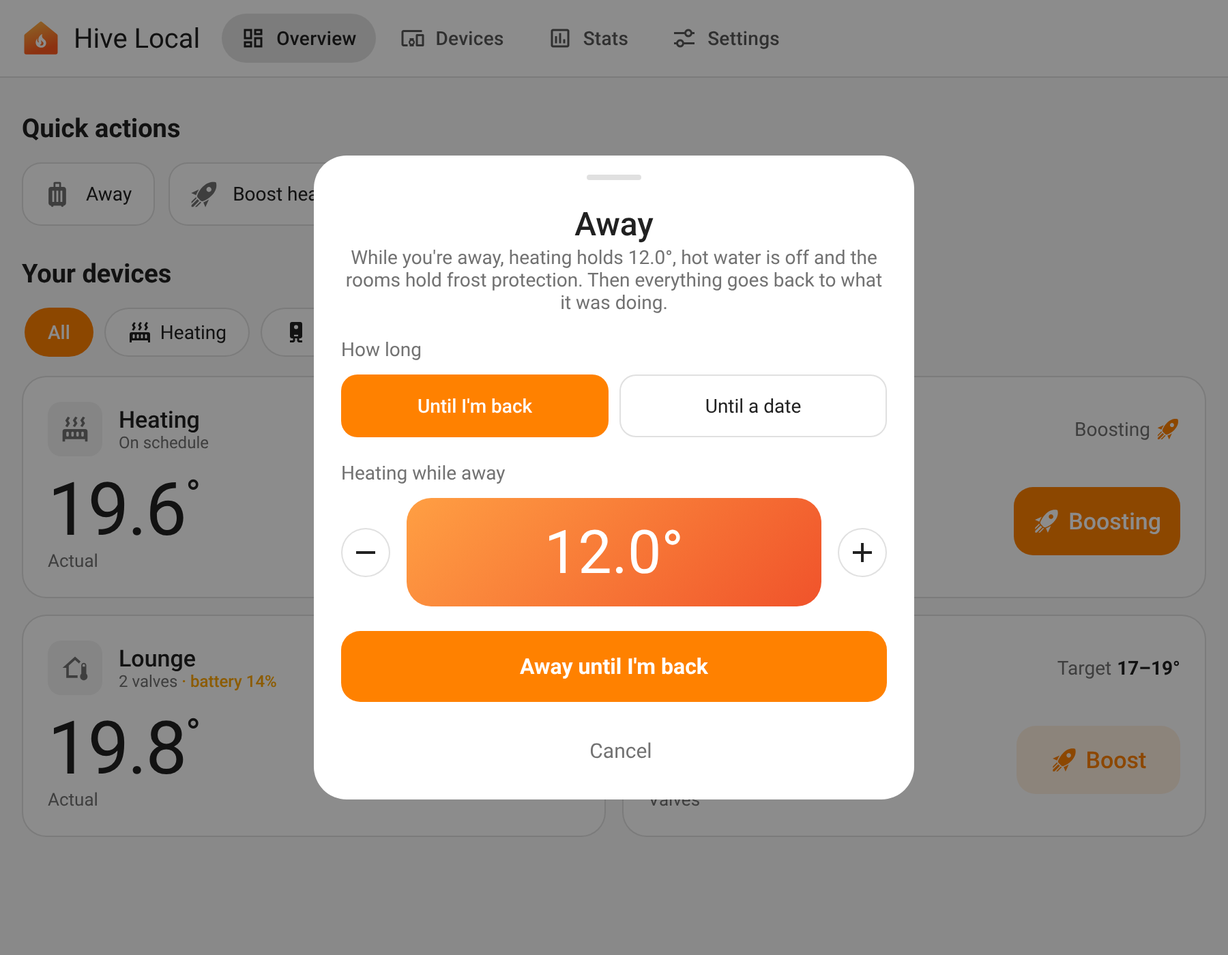
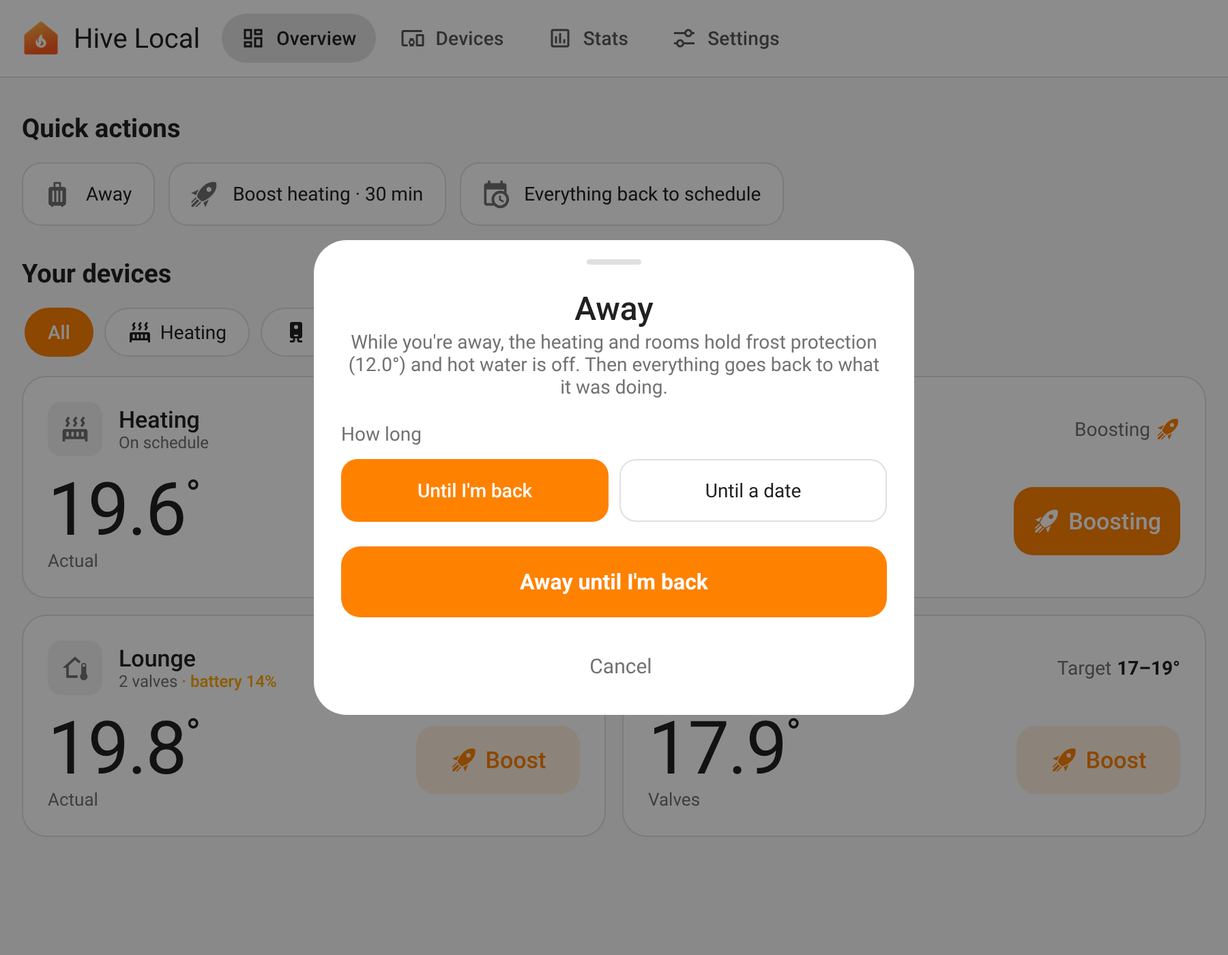
fix(holiday): away and holidays always hold frost protection
No temperature to pick: the Away sheet's stepper is gone and set_holiday no longer takes a temperature, like set_away.

Claude-Session: https://claude.ai/code/session_01P2tYEZ8mBtH1pfQTx5Higu

Changed region(s): [[0.2489, 0.1536, 0.7467, 0.86]]

diff --git a/custom_components/hive_local/frontend/hive-local-panel.js b/custom_components/hive_local/frontend/hive-local-panel.js
@@ -6007,24 +6007,20 @@ function O(e) {
 }
 // src/Holiday.tsx
 var k = (e) => String(e).padStart(2, "0"), A = (e) => `${e.getFullYear()}-${k(e.getMonth() + 1)}-${k(e.getDate())}T${k(e.getHours())}:${k(e.getMinutes())}`;
-function ee({ hasHeat: e, hasWater: t, frost: n, limits: r, busy: i, onGo: a, onClose: o }) {
-	let [s, c] = (0, u.useState)(() => {
+function ee({ hasHeat: e, hasWater: t, frost: n, busy: r, onGo: i, onClose: a }) {
+	let [o, s] = (0, u.useState)(() => {
 		let e = /* @__PURE__ */ new Date();
 		return e.setDate(e.getDate() + 7), e.setHours(14, 0, 0, 0), A(e);
-	}), [l, d] = (0, u.useState)(n), [m, h] = (0, u.useState)(!1), g = r?.boost_min_temp ?? 5, _ = r?.heat_max ?? 32, v = (e) => Math.min(_, Math.max(g, Math.round(e * 2) / 2));
+	}), [c, l] = (0, u.useState)(!1);
 	(0, u.useEffect)(() => {
-		let e = (e) => e.key === "Escape" && o();
+		let e = (e) => e.key === "Escape" && a();
 		return window.addEventListener("keydown", e), () => window.removeEventListener("keydown", e);
-	}, [o]);
-	let y = new Date(s), b = !m || !Number.isNaN(y.getTime()) && y.getTime() > Date.now() + 6e4, x = [
-		e && `heating holds ${l.toFixed(1)}°`,
-		t && "hot water is off",
-		e && "the rooms hold frost protection"
-	].filter(Boolean).join(", ").replace(/, ([^,]*)$/, " and $1");
+	}, [a]);
+	let d = new Date(o), p = !c || !Number.isNaN(d.getTime()) && d.getTime() > Date.now() + 6e4, m = [e && `the heating and rooms hold frost protection (${n.toFixed(1)}°)`, t && "hot water is off"].filter(Boolean).join(", ").replace(/, ([^,]*)$/, " and $1");
 	return /* @__PURE__ */ (0, f.jsx)("div", {
 		className: "sheet-backdrop",
 		onClick: (e) => {
-			e.stopPropagation(), o();
+			e.stopPropagation(), a();
 		},
 		children: /* @__PURE__ */ (0, f.jsxs)("div", {
 			className: "sheet heat",
@@ -6040,7 +6036,7 @@ function ee({ hasHeat: e, hasWater: t, frost: n, limits: r, busy: i, onGo: a, on
 						className: "muted",
 						children: [
 							"While you're away, ",
-							x,
+							m,
 							". Then everything goes back to what it was doing."
 						]
 					})]
@@ -6053,17 +6049,17 @@ function ee({ hasHeat: e, hasWater: t, frost: n, limits: r, busy: i, onGo: a, on
 					}), /* @__PURE__ */ (0, f.jsxs)("div", {
 						className: "sheet-lengths",
 						children: [/* @__PURE__ */ (0, f.jsx)("button", {
-							className: m ? "" : "on",
-							onClick: () => h(!1),
+							className: c ? "" : "on",
+							onClick: () => l(!1),
 							children: "Until I'm back"
 						}), /* @__PURE__ */ (0, f.jsx)("button", {
-							className: m ? "on" : "",
-							onClick: () => h(!0),
+							className: c ? "on" : "",
+							onClick: () => l(!0),
 							children: "Until a date"
 						})]
 					})]
 				}),
-				m && /* @__PURE__ */ (0, f.jsxs)("div", {
+				c && /* @__PURE__ */ (0, f.jsxs)("div", {
 					className: "sheet-field",
 					children: [/* @__PURE__ */ (0, f.jsx)("span", {
 						className: "sheet-label",
@@ -6071,47 +6067,20 @@ function ee({ hasHeat: e, hasWater: t, frost: n, limits: r, busy: i, onGo: a, on
 					}), /* @__PURE__ */ (0, f.jsx)("input", {
 						className: "sheet-time",
 						type: "datetime-local",
-						value: s,
+						value: o,
 						min: A(/* @__PURE__ */ new Date()),
-						onChange: (e) => c(e.target.value)
-					})]
-				}),
-				e && /* @__PURE__ */ (0, f.jsxs)("div", {
-					className: "sheet-field",
-					children: [/* @__PURE__ */ (0, f.jsx)("span", {
-						className: "sheet-label",
-						children: "Heating while away"
-					}), /* @__PURE__ */ (0, f.jsxs)("div", {
-						className: "sheet-temp",
-						children: [
-							/* @__PURE__ */ (0, f.jsx)("button", {
-								className: "round sheet-step",
-								onClick: () => d(v(l - .5)),
-								"aria-label": "Lower",
-								children: /* @__PURE__ */ (0, f.jsx)(p, { name: "minus" })
-							}),
-							/* @__PURE__ */ (0, f.jsxs)("span", {
-								className: "sheet-temp-value",
-								children: [l.toFixed(1), "°"]
-							}),
-							/* @__PURE__ */ (0, f.jsx)("button", {
-								className: "round sheet-step",
-								onClick: () => d(v(l + .5)),
-								"aria-label": "Raise",
-								children: /* @__PURE__ */ (0, f.jsx)(p, { name: "plus" })
-							})
-						]
+						onChange: (e) => s(e.target.value)
 					})]
 				}),
 				/* @__PURE__ */ (0, f.jsx)("button", {
 					className: "sheet-go",
-					disabled: i || !b,
-					onClick: () => a(m ? y : null, l),
-					children: m ? b ? `Away until ${T(y)}` : "Pick a time in the future" : "Away until I'm back"
+					disabled: r || !p,
+					onClick: () => i(c ? d : null),
+					children: c ? p ? `Away until ${T(d)}` : "Pick a time in the future" : "Away until I'm back"
 				}),
 				/* @__PURE__ */ (0, f.jsx)("button", {
 					className: "ghost sheet-cancel",
-					onClick: o,
+					onClick: a,
 					children: "Cancel"
 				})
 			]
@@ -6320,12 +6289,10 @@ function N({ getHass: e, devices: t, status: n, limits: r }) {
 			hasHeat: g.some(({ c: e }) => e === "heat"),
 			hasWater: g.some(({ c: e }) => e === "water"),
 			frost: v?.frost_temperature ?? 12,
-			limits: r,
 			busy: i != null,
-			onGo: (e, t) => m("holiday", [{
+			onGo: (e) => m("holiday", [{
 				type: "hive_local/holiday/set",
-				...e ? { until: e.toISOString() } : {},
-				temperature: t
+				...e ? { until: e.toISOString() } : {}
 			}], e ? `Away until ${T(e)}` : "Away until you're back").then((e) => e && l(!1)),
 			onClose: () => l(!1)
 		})

diff --git a/frontend/src/Holiday.tsx b/frontend/src/Holiday.tsx
@@ -1,31 +1,27 @@
 import { useEffect, useState } from "react";
 import { formatUntil } from "./api";
-import { Icon } from "./Icon";
-import type { Limits } from "./types";
 
 const pad = (n: number) => String(n).padStart(2, "0");
 /** A Date as a datetime-local input value (the browser's local time). */
 const toInput = (d: Date) =>
   `${d.getFullYear()}-${pad(d.getMonth() + 1)}-${pad(d.getDate())}T${pad(d.getHours())}:${pad(d.getMinutes())}`;
 
-/** Away until…: pick when you're back and what the heating holds meanwhile (every receiver). */
+/** Away: until you're back or until a date (every receiver). Heating always holds frost protection. */
 export function HolidaySheet({
   hasHeat,
   hasWater,
   frost,
-  limits,
   busy,
   onGo,
   onClose,
 }: {
   hasHeat: boolean;
   hasWater: boolean;
-  /** The frost protection setting: the default holiday temperature. */
+  /** The frost protection setting: what the heating holds while away. */
   frost: number;
-  limits: Limits | null;
   busy: boolean;
   /** null: until you're back (the Away toggle). */
-  onGo: (until: Date | null, temperature: number) => void;
+  onGo: (until: Date | null) => void;
   onClose: () => void;
 }) {
   // A week from now, at 14:00.
@@ -35,12 +31,8 @@ export function HolidaySheet({
     d.setHours(14, 0, 0, 0);
     return toInput(d);
   });
-  const [temp, setTemp] = useState(frost);
   // Until you're back (open-ended, the default) or until a date.
   const [dated, setDated] = useState(false);
-  const minTemp = limits?.boost_min_temp ?? 5;
-  const maxTemp = limits?.heat_max ?? 32;
-  const clamp = (t: number) => Math.min(maxTemp, Math.max(minTemp, Math.round(t * 2) / 2));
   useEffect(() => {
     const onKey = (e: KeyboardEvent) => e.key === "Escape" && onClose();
     window.addEventListener("keydown", onKey);
@@ -49,7 +41,7 @@ export function HolidaySheet({
 
   const when = new Date(until);
   const valid = !dated || (!Number.isNaN(when.getTime()) && when.getTime() > Date.now() + 60_000);
-  const what = [hasHeat && `heating holds ${temp.toFixed(1)}°`, hasWater && "hot water is off", hasHeat && "the rooms hold frost protection"]
+  const what = [hasHeat && `the heating and rooms hold frost protection (${frost.toFixed(1)}°)`, hasWater && "hot water is off"]
     .filter(Boolean)
     .join(", ")
     .replace(/, ([^,]*)$/, " and $1");
@@ -84,18 +76,7 @@ export function HolidaySheet({
           </div>
         )}
 
-        {hasHeat && (
-          <div className="sheet-field">
-            <span className="sheet-label">Heating while away</span>
-            <div className="sheet-temp">
-              <button className="round sheet-step" onClick={() => setTemp(clamp(temp - 0.5))} aria-label="Lower"><Icon name="minus" /></button>
-              <span className="sheet-temp-value">{temp.toFixed(1)}°</span>
-              <button className="round sheet-step" onClick={() => setTemp(clamp(temp + 0.5))} aria-label="Raise"><Icon name="plus" /></button>
-            </div>
-          </div>
-        )}
-
-        <button className="sheet-go" disabled={busy || !valid} onClick={() => onGo(dated ? when : null, temp)}>
+        <button className="sheet-go" disabled={busy || !valid} onClick={() => onGo(dated ? when : null)}>
           {!dated ? "Away until I'm back" : valid ? `Away until ${formatUntil(when)}` : "Pick a time in the future"}
         </button>
         <button className="ghost sheet-cancel" onClick={onClose}>Cancel</button>

diff --git a/frontend/src/Overview.tsx b/frontend/src/Overview.tsx
@@ -191,10 +191,9 @@ function QuickActions({ getHass, devices, status, limits }: { getHass: () => Has
           hasHeat={all.some(({ c }) => c === "heat")}
           hasWater={all.some(({ c }) => c === "water")}
           frost={heatInfo?.frost_temperature ?? 12}
-          limits={limits}
           busy={busy != null}
-          onGo={(until, temperature) =>
-            run("holiday", [{ type: "hive_local/holiday/set", ...(until ? { until: until.toISOString() } : {}), temperature }], until ? `Away until ${formatUntil(until)}` : "Away until you're back").then(
+          onGo={(until) =>
+            run("holiday", [{ type: "hive_local/holiday/set", ...(until ? { until: until.toISOString() } : {}) }], until ? `Away until ${formatUntil(until)}` : "Away until you're back").then(
               (ok) => ok && setHolidaySheet(false),
             )
           }

diff --git a/tests/e2e/test_holiday_e2e.py b/tests/e2e/test_holiday_e2e.py
@@ -172,9 +172,9 @@ async def test_holiday(hass, mqtt_mock, freezer, hass_ws_client):
     freezer.move_to(t1)
     await report(hass, {**SCHEDULE, "temperature_setpoint_hold_heat": True, "occupied_heating_setpoint_heat": 19})
     mqtt_mock.async_publish.reset_mock()
-    await hass.services.async_call("hive_local", "set_holiday", {"until": t1 + timedelta(hours=2), "temperature": 10}, blocking=True)
-    assert boost(120, 10.0) in sets(mqtt_mock), sets(mqtt_mock)
-    await report(hass, away(temp=10, left=120))
+    await hass.services.async_call("hive_local", "set_holiday", {"until": t1 + timedelta(hours=2)}, blocking=True)
+    assert boost(120, 12.0) in sets(mqtt_mock), sets(mqtt_mock)
+    await report(hass, away(temp=12, left=120))
     assert holiday.away["heat"].restore_mode == "manual" and holiday.away["heat"].restore_setpoint == 19
     mqtt_mock.async_publish.reset_mock()
     await tick(hass, freezer, t1 + timedelta(hours=2, seconds=1))

diff --git a/custom_components/hive_local/services.py b/custom_components/hive_local/services.py
@@ -38,9 +38,6 @@ SET_HOLIDAY_SCHEMA = vol.Schema(
     _DEVICE
     | {
         vol.Required(ATTR_UNTIL): cv.datetime,
-        vol.Optional(ATTR_TEMPERATURE): vol.All(
-            vol.Coerce(float), vol.Range(BOOST_MIN_TEMP, HEAT_MAX)
-        ),
     }
 )
 SET_AWAY_SCHEMA = vol.Schema(_DEVICE)
@@ -97,7 +94,7 @@ def async_register(hass: HomeAssistant) -> None:
             until = until.replace(tzinfo=dt_util.get_default_time_zone())
         try:
             for entry in _entries(hass, call):
-                await entry.runtime_data.async_set_holiday(until, call.data.get(ATTR_TEMPERATURE))
+                await entry.runtime_data.async_set_holiday(until)
         except ScheduleError as err:
             raise ServiceValidationError(str(err)) from err
 

diff --git a/CLAUDE.md b/CLAUDE.md
@@ -22,7 +22,7 @@ Don't use the domain `hive`: HA core's cloud Hive integration already has it, an
   - Valve schedules (#5; **works on a real Hive valve**, Elliot tested it on 2026-11-26, so the Experimental chip and "not yet tried" note are gone): a room's weekly schedule kept on each of its Hive valves (a Danfoss Ally keeps 6 transitions a day, endpoint 1, the receiver's ZCL commands) and followed only in its "schedule" programming mode. `trv.py` (pure, tested in `test_trv.py`): valve address from the device registry identifiers (`("zha", ieee)` / `("mqtt", "zigbee2mqtt_0x…")`), Z2M's `schedule_<day>` text ("06:00/21 22:00/17"), `combine_reads` (the first valve with the most days; `differs` lists days the valves disagree on), and the clock: ZCL time is seconds since 2000-01-01 UTC, `time_attributes` (time, time_status 0x02, standard `time_zone`, `dst_start/end/shift` from the HA time zone, either hemisphere), `clock_offset` (the valve's `local_time`, else time + zone + DST, against HA's local time) and `CLOCK_TOLERANCE` 120 s. Valve setpoints are 5–32 °C. The editor's "Off" is the room's receiver's **frost protection** (`RoomManager.frost`, Settings → Frost protection, default 12 °C; Elliot, 2026-11-26, "like the receiver"), returned as `limits.frost` by `rooms/schedule/get`: the Ally has no off, so what Off writes is what it holds. Slots at that temperature, or at 5 °C or below (older writes), show as Off; on a read, `RoomSchedule` turns 5 °C-or-below slots into the frost temperature as unsaved changes (`ScheduleSource.read` may return `edited` + `note`), so one Save moves valves written before the change (Elliot saw them still at 5, 2026-11-26). Harness: `?oldoff=1`. `valve_schedule.py`: `async_read_room` (every valve at once; `VALVE_READ_TIMEOUT` 15 s, it sleeps), `async_write_room` (validated, then every valve, one command per day with only its own transitions, `schedule.per_day(pad=False)`: Z2M sends the Ally exactly its transitions, and padding to 6 repeats a time, which the valve may refuse (Elliot's read/save gave `Status.FAILURE: 1`, 2026-11-26; the receivers keep their padding); the panel sends only changed days; partial failures come back in `failed`, all failing is an error) and `async_set_room_schedule_mode`. **ZHA** (`transports/zha_valve.py`, lazily imported): the read/write share `read_weekly_schedule` / `write_weekly_schedule` with the receiver (`transports/zha.py`; reads `expect_reply=False` + legacy listener), but valve writes wait for the default response (Z2M doesn't disable it for the Ally). **Sleepy:** every valve request (schedule read/write, clock, schedule mode) goes through `zha.send_when_awake`, which tries again every 5 s for up to `VALVE_WAKE_WAIT` (120 s) while delivery fails (the parent drops a message the sleeping valve doesn't poll for; Z2M queues them instead); the panel says pressing a valve's dial wakes it. **Clock:** before writing, each valve's Time cluster (0x000A) is read and, if more than 2 min out or unset, set (like Z2M does daily for the Ally) and read back; still wrong (or refused) skips that valve ("Not written, its clock may be wrong"). Reads only report it. Chosen over refusing: the Ally needs the right time for any schedule, and ZHA's Danfoss quirk only writes the time when binding, with no DST (an hour out all summer in the UK). `programing_oper_mode` bit 0 = follow the schedule. **Z2M:** supported: zigbee-herdsman-converters' Ally definition (`danfossWeeklySchedule`) has `schedule_<day>` keys (one setWeeklySchedule / getWeeklySchedule per key, queued for the sleepy valve) and sets the clock itself (on pairing, rejoin and daily), so we don't check it; the valve's topic is `<base>/<friendly name>` found by IEEE in `bridge/devices` (each Z2M receiver's base topic, then `zigbee2mqtt`); a read takes `schedule_<day>` and `programming_operation_mode` from state messages after the `/get` (Z2M's state carries its cache, so a stale day is possible). Websocket `hive_local/rooms/schedule/get|set`; the valves' schedule mode is switched by the room's mode (`rooms/mode`; the separate `rooms/schedule/mode` was removed, Elliot 2026-11-26). Panel: the room page's Schedule tab → `RoomSchedule.tsx` (`RoomScheduleDialog`, on the room page with `page`: the status line from the room's mode, like the heating's ("Your schedule is running" / "isn't being used: the room is on Manual"; the old "The valves follow this schedule · Use it / Stop" row duplicated the Control tab's Schedule / Manual / Off and is gone, Elliot 2026-11-26), notes on clocks, missing days, disagreements and valves not following it, and the sleep hint below) around `ScheduleEditor` with a `source` (read/write/noun/statusLine; `embedded` makes the ⋯ button and save bar sticky in the dialog). `tests/e2e/test_valve_schedule_e2e.py`: a real zigpy device with Thermostat + Time on endpoint 1 and a fake Ally radio (per-day replies, default responses, a clock an hour behind in BST), a clock that can't be set, and a room with a ZHA and a Z2M valve. Still unverified: the Z2M keys' behaviour on a real Z2M, and the valve's `local_time`.
   - `stats.py` (pure, unit-tested): `sample_from_state` turns a recorded state of our climate / water_heater entity into a `Sample` (mode, heating, current, target), and `summarise` gives heating minutes, cycles (off→on inside the period), boosts, time per mode, time-weighted temperatures, per-day totals, chart buckets (15 min / 1 h / 6 h for 1 / 7 / 30 days) and the same stretch of the previous period. `websocket.hive_local/stats {entry_id, channel, days, offset}` (offset = periods back) finds our entity by unique id and reads `recorder.history.get_significant_states(significant_changes_only=False)` (attribute changes matter: `hvac_action`, `heating`). Periods start at local midnight. `recorder` is an `after_dependency`. `frontend/src/Stats.tsx` is the Stats tab, laid out after the Hive app's Heating History (which Elliot shared): receiver tabs (several receivers; on a device page it's fixed to that channel), D / W / M and time or temperature (heating) toggles (Hive's £ cost isn't possible: no energy prices), a ‹ date › pill to step back, a tinted summary box with two numbers, a note (vs the period before, fired up, boosts), then a row per day (per hour on D, from the 15-min buckets) newest first: bar, value, and that day's low · high room temperature (where Hive shows the weather). Days carry `temp_min` / `temp_max`. The old SVG charts are gone. Not yet tried against real recorder data. **Outdoor temperature** (0.9.0, issue #10): the house-wide `HouseSettings.outdoor_entity` (Settings tab; it was briefly a per-receiver options flow, removed before release); `history.async_outdoor` reads its recorded history (weather: the `temperature` attribute; converted to HA's unit system) as `stats.Reading`s, and `summarise(outdoor=...)` adds `outdoor` {avg, min, max} to the period, `outdoor_avg` to `previous`, `outdoor_avg/min/max` to days and `outdoor` to buckets (all absent/None without a source). The panel shows an Outside column (low–high) on the rows and "6° outside, 3° colder than the period before" in the note, heating only; without a source it shows a one-line hint pointing to the Settings tab. `hive_local/stats` returns `outdoor_entity`.
   - Pre-heat (0.8.0, issue #8): `preheat.py` (pure, unit-tested) has `learn_rate` (warm-ups from recorded `stats.Sample`s: boiler on ≥ 20 min starting ≥ 1 °C below target, rise ≥ 0.3 °C, rate to the peak; the median once there are 3) and `plan` (only the very next scheduled change, only if it's a rise from what the schedule holds now; lead = climb / rate + 10 min, capped by max lead). `preheat_controller.Preheat` (`HiveData.preheat`, heating only): opt-in via `switch.py` (restored), max lead via `number.PreheatMaxLead` (default 120, 15–240), learns from 14 days of history 60 s after start and every 6 h (`history.py`, shared with Stats), and keeps the heating schedule in `.storage/hive_local.schedule.<entry_id>` from every panel read/write (`schedule_seen`), reads it when enabled without a full week, and re-reads it nightly at 03:17. Every minute, on Schedule, it **boosts** to the new temperature until the scheduled time (self-expiring, so it fails safe; chosen over a setpoint override, which is unverified). Someone cancelling our boost (Stop pre-heating, Manual, Off) skips that change (the card says so) until the heating goes from Manual or Off back to Schedule, or pre-heat is turned on again; choosing Schedule while pre-heating does nothing (`HiveData.async_set_mode`), since the pre-heat is the schedule, and the panel shows Schedule selected. Turning pre-heat off mid-way cancels it. A schedule read or write checks a running pre-heat (`preheat.still_wanted`): if the change it was for is gone (moved, removed or off) the boost is cancelled at once and it re-plans; if only the temperature changed it boosts to that instead, to the same end. Mode changes are acted on at once, not on the next minute. The running pre-heat (`active_for`) is saved in the same store, so a restart mid-way keeps showing it as a pre-heat (0.8.2). The panel says Pre-heating, not Boosting, on the card's button, the boost sheet ("Stop pre-heating"), the device page and the Schedule tab; HA's own climate card still shows the boost preset. The climate entity has a `preheat` attribute while it runs, and `stats.sample_from_state` counts that as schedule, not boost. The panel's status carries `preheat` (`as_dict`) on heat; `hive_local/preheat {entry_id, enabled?, max_lead?}` goes through the switch and number so settings are restored. `frontend/src/Preheat.tsx` is the card on the heating Control tab; cards say "Pre-heating for 06:30". `tests/e2e/test_preheat_e2e.py` (mocked MQTT) covers it.
-  - Holiday (issue #6): `holiday.py` (pure, unit-tested: `Away`, `restore_point`, `lease_minutes`, `needs_renewal`, `is_our_boost`, `judge` → KEEP / REASSERT / DROP) and `holiday_controller.Holiday` (`HiveData.holiday`, per receiver, all its channels). Heating is held with a **boost** at the holiday temperature (default: the frost protection number) as a fail-safe (Elliot, 2026-11-24): a boost is the receiver's only self-ending timer (a manual hold ignores the hold duration, see Key facts), so we boost for `min(6 h, time left)` and renew once an hour has run down (checked every 5 min); if HA stops, the receiver ends the boost within 6 h and goes back to its pre-boost mode, and in the last 6 h it ends exactly at `until`. Hot water is `off` (no fail-safe: a water boost means on). The end and cancel **restore the previous mode** (Elliot), taken from before any boost (`Transport.resume_state`). Stored in `.storage/hive_local.holiday.<entry_id>` (epoch `until`, temperature, restore mode/setpoint, `lease_end`). Reports: our boost → keep; a boost at another temperature (or any water boost) is someone's boost on top, and when it ends the holiday is put back; our boost ending before `lease_end` means someone changed the mode → drop for that channel; ending at/after `lease_end` (HA was down) → put back. A 30 s settle window follows our writes and startup, with a re-check when it ends (an unchanged report isn't re-sent). Overdue holidays end on the receiver's first report after start. `Holiday.is_holding` (our boost is running): the panel shows Away, not Boosting (`holiday.holding` in the status), `HiveData.async_set_target` and climate `set_temperature` change the holiday temperature, climate preset is `away` (clearing it cancels; setting it raises), and `stats.sample_from_state` counts preset `away` as manual. Pre-heat is blocked while heating is away (`Preheat.blocked`). Climate and water_heater carry `holiday_until`. `frontend/src/Holiday.tsx` is the "Away until…" sheet; cards say "Away until Sat 14:00" (`formatUntil` in `api.ts`); the device page has an End row; "Everything back to schedule" skips channels on holiday. `tests/e2e/test_holiday_e2e.py` (mocked MQTT, SLR2) covers it. **Away until I'm back** (2026-11-26, Elliot): `until` can be None (open-ended: `holiday.lease_minutes(now, None)` = 6 h, renewed forever; `overdue()` never true), set by the per-receiver `switch.<receiver>_away` (`AwaySwitch`: on = `async_set_holiday(None)`, off = cancel) or the sheet's "Until I'm back" (`holiday/set` without `until`); the sheet's "Until a date" is the old dated holiday. Both cover **rooms**: going away (heating) calls `RoomManager.async_away(entry_id, True)`, which keeps each of that receiver's rooms' mode in `away_restore` and turns it Off (frost protection); ending puts the mode back (choosing a room mode meanwhile drops `away_restore`, keeping the choice). Rooms carry `away`; the room card says "Away 12°", the quick action "Away" / "I'm back". `tests/e2e/test_away_e2e.py`. Harness `?holiday=open`.
+  - Holiday (issue #6): `holiday.py` (pure, unit-tested: `Away`, `restore_point`, `lease_minutes`, `needs_renewal`, `is_our_boost`, `judge` → KEEP / REASSERT / DROP) and `holiday_controller.Holiday` (`HiveData.holiday`, per receiver, all its channels). Heating is held with a **boost** at the holiday temperature (default: the frost protection number) as a fail-safe (Elliot, 2026-11-24): a boost is the receiver's only self-ending timer (a manual hold ignores the hold duration, see Key facts), so we boost for `min(6 h, time left)` and renew once an hour has run down (checked every 5 min); if HA stops, the receiver ends the boost within 6 h and goes back to its pre-boost mode, and in the last 6 h it ends exactly at `until`. Hot water is `off` (no fail-safe: a water boost means on). The end and cancel **restore the previous mode** (Elliot), taken from before any boost (`Transport.resume_state`). Stored in `.storage/hive_local.holiday.<entry_id>` (epoch `until`, temperature, restore mode/setpoint, `lease_end`). Reports: our boost → keep; a boost at another temperature (or any water boost) is someone's boost on top, and when it ends the holiday is put back; our boost ending before `lease_end` means someone changed the mode → drop for that channel; ending at/after `lease_end` (HA was down) → put back. A 30 s settle window follows our writes and startup, with a re-check when it ends (an unchanged report isn't re-sent). Overdue holidays end on the receiver's first report after start. `Holiday.is_holding` (our boost is running): the panel shows Away, not Boosting (`holiday.holding` in the status), `HiveData.async_set_target` and climate `set_temperature` change the holiday temperature, climate preset is `away` (clearing it cancels; setting it raises), and `stats.sample_from_state` counts preset `away` as manual. Pre-heat is blocked while heating is away (`Preheat.blocked`). Climate and water_heater carry `holiday_until`. `frontend/src/Holiday.tsx` is the "Away until…" sheet; cards say "Away until Sat 14:00" (`formatUntil` in `api.ts`); the device page has an End row; "Everything back to schedule" skips channels on holiday. `tests/e2e/test_holiday_e2e.py` (mocked MQTT, SLR2) covers it. **Away until I'm back** (2026-11-26, Elliot): `until` can be None (open-ended: `holiday.lease_minutes(now, None)` = 6 h, renewed forever; `overdue()` never true), set by the per-receiver `switch.<receiver>_away` (`AwaySwitch`: on = `async_set_holiday(None)`, off = cancel) or the sheet's "Until I'm back" (`holiday/set` without `until`); the sheet's "Until a date" is the old dated holiday. Both cover **rooms**: going away (heating) calls `RoomManager.async_away(entry_id, True)`, which keeps each of that receiver's rooms' mode in `away_restore` and turns it Off (frost protection); ending puts the mode back (choosing a room mode meanwhile drops `away_restore`, keeping the choice). Rooms carry `away`; the room card says "Away 12°", the quick action "Away" / "I'm back". `tests/e2e/test_away_e2e.py`. Harness `?holiday=open`. **No temperature to pick (Elliot, 2026-11-26):** away and holidays always hold the heating's frost protection; the sheet has no temperature stepper and the `set_holiday` / `set_away` actions take none (`holiday/set` still accepts an optional `temperature`, unused by the panel).
   - Rooms call for heat (issue #4): `demand.py` (pure, tested: `valve_reading`, `room_need`, `calling`, `decide` → IDLE / START / KEEP / STOP, `boost_setpoint`, `scheduled_now`, `minutes_until_off`, `lease_minutes`, `Run`) and `demand_controller.Demand` (`HiveData.demand`, heating only). Opt-in per receiver (`switch` `room_demand`, off by default) plus `room_demand_outside_schedule` (off: no requests in the schedule's 1 °C periods); numbers `room_demand_start` (0.5 °C below target), `room_demand_stop` (within 0.2 °C), `room_demand_min_on` / `min_off` (10 min; Elliot kept the minimum on even when a valve is turned down, 2026-11-26, to spare the boiler short cycles), all restored. Every minute it reads the rooms whose `receiver` is this entry straight from HA states (not `RoomManager.status()`): a valve counts if it isn't unavailable/off and its `last_reported` is within 60 min, heating = `hvac_action` heating or `pi_heating_demand` ≥ 10 %, counted only while the room is below its target (a valve turned down keeps reporting heating for minutes while it closes, which kept the boiler on: Elliot, 2026-11-26); while it's only waiting out the minimum on time, the boost isn't re-sent at a new temperature; a stale room sensor falls back to the valves; a room with nothing usable is ignored. It only starts from **Schedule** (never Off or Manual), when the receiver isn't already heating, with a **boost** (fail-safe, like the holiday) at max(scheduled + 2, receiver's reading + 1, the rooms' target), ≤ 32 °C, for a 30 min lease ending early at the schedule's next off (from pre-heat's cached schedule, read when it's turned on without a full week), renewed under 20 min left; when the rooms are warm (after min on) or the schedule turns off, it cancels the boost (`Transport.resume_state`, so back to the schedule). Ours = boosting at our setpoint; a 30 s settle window follows our writes. Someone cancelling it or changing the mode stops it until the rooms are warm (or Manual/Off → Schedule); someone's boost on top just ends the request. **Holiday and pre-heat win:** nothing while `holiday.away` has heating or `preheat.active_for` is set, and we step aside without cancelling; `Preheat.overridable` (= `Demand.owns_boost`) lets pre-heat start over our boost. Choosing Schedule while it runs does nothing (`HiveData.async_set_mode`). Stored in `.storage/hive_local.demand.<entry_id>` (`run`, `last_end`, `suppressed`; removed with the entry); after a restart our boost is picked up again, or released as lapsed if the receiver's back on schedule. Climate attribute `room_demand` (room names while running; `stats.sample_from_state` counts it as schedule), status `demand` (`as_dict`: enabled, outside_schedule, active, rooms, calling, setpoint, reason), `hive_local/demand {entry_id, enabled?, outside_schedule?}` (through the switches). The panel says "Heating for Bedroom" on the card, the device page and the Schedule tab, "For rooms" on the button, "Stop for now" in the sheet, Schedule stays selected, and "Everything back to schedule" leaves it alone; Settings has a "Rooms call for heat" row per receiver (On/Off, then Outside the schedule). `tests/e2e/test_demand_e2e.py` (mocked MQTT, OTR1, a fake ZHA valve) covers it.
   - Room boost (2026-11-26): boost one room for a while. `room_boost.py` (pure, tested: `check` 15 min–6 h and 5–32 °C, `start` keeps the valves' targets from before the first boost, `restore`, `Boost` with `remaining`/`over`) and `room_boost_controller.RoomBoosts` (house-wide, `hass.data[DATA_ROOM_BOOSTS]`, created in `async_setup`, stored in `.storage/hive_local.room_boost`): sets the room's valves to the boost temperature (`climate.set_temperature`), and when time's up (checked every 30 s, also after a restart) or it's stopped puts each valve's own target back, retrying a valve that's unavailable for up to 6 h (`pending`). The valves have no timer of their own, so they stay boosted while HA is down; the boiler doesn't. **Boiler (Elliot: yes, even with "Rooms call for heat" off):** each receiver's `Demand` treats a boosted room (`RoomBoosts.active_rooms`) as calling until within `stop_within` of the boost temperature, whether or not the switch is on, in the schedule's off periods and from Manual, with no minimum off; never while the heating is Off, and holiday and pre-heat still win. Starting a room boost clears an earlier "Stop for now" (`Demand.room_boosted`) and pokes demand at once. `hive_local/rooms/boost {room_id, minutes, temperature}` / `rooms/cancel_boost`; `rooms/set_target` while boosting changes the boost's temperature (keeping the time left); deleting a room ends its boost. Rooms carry `boost {until, temperature, remaining}`. Panel: room cards have a Boost button (the channel's `BoostSheet`, defaulting to the room's receiver's heating boost length and temperature) and say "Boost · 42 min left"; `RoomSheet`'s target reads "Boost to". Diagnostics carry `room_boosts`. `tests/e2e/test_room_boost_e2e.py`. Unverified on real valves.
   - Room climate entities (2026-11-26, Elliot: "switch states same as the main stat"): `room_climate.RoomClimate`, one per room, added by the climate platform of the receiver that heats it (`receiver`; a room without one goes to the first receiver) and added / removed / renamed as rooms change (`SIGNAL_ROOMS`). Each room is its own device (`(DOMAIN, f"room_{id}")`, model "Room", `via_device` the receiver; no `suggested_area`, which made the entity `climate.bedroom_bedroom`), entity name = the device's, so `climate.<room>`. Modes are stored on the room (`mode`, `RoomManager.async_set_mode`): **auto** = the valves follow their own weekly schedule (`valve_schedule.async_set_room_schedule_mode`, #5), **heat** (default) = they hold the room's target, **off** = every valve to the receiver's frost protection (`RoomManager.frost`, default 12 °C; `ROOM_OFF_TEMPERATURE` is only the fallback; a Hive valve can't switch off, and 5 °C, its lowest, was too cold: Elliot, 2026-11-26) with their targets kept in `off_targets` and put back when it's turned on. Target = every valve (`async_set_target`; a temperature while off turns it on to heat); preset **boost** = a room boost with the receiver's heating boost defaults (at least 15 min), clearing it stops the boost, and a temperature mid-boost changes the boost's. Current temperature, `hvac_action` (heating if a valve is) and the target come from `rooms.summarise`; it follows the valves' and sensor's state changes. Attributes: `valves`, `target_range`, `boost_until`, `boost_remaining`. Devices are found through the entity's registry entry (HA 2026.10 deprecates `async_get_device`). `tests/e2e/test_room_climate_e2e.py`. The panel's room page sets the same modes (see Room page).
